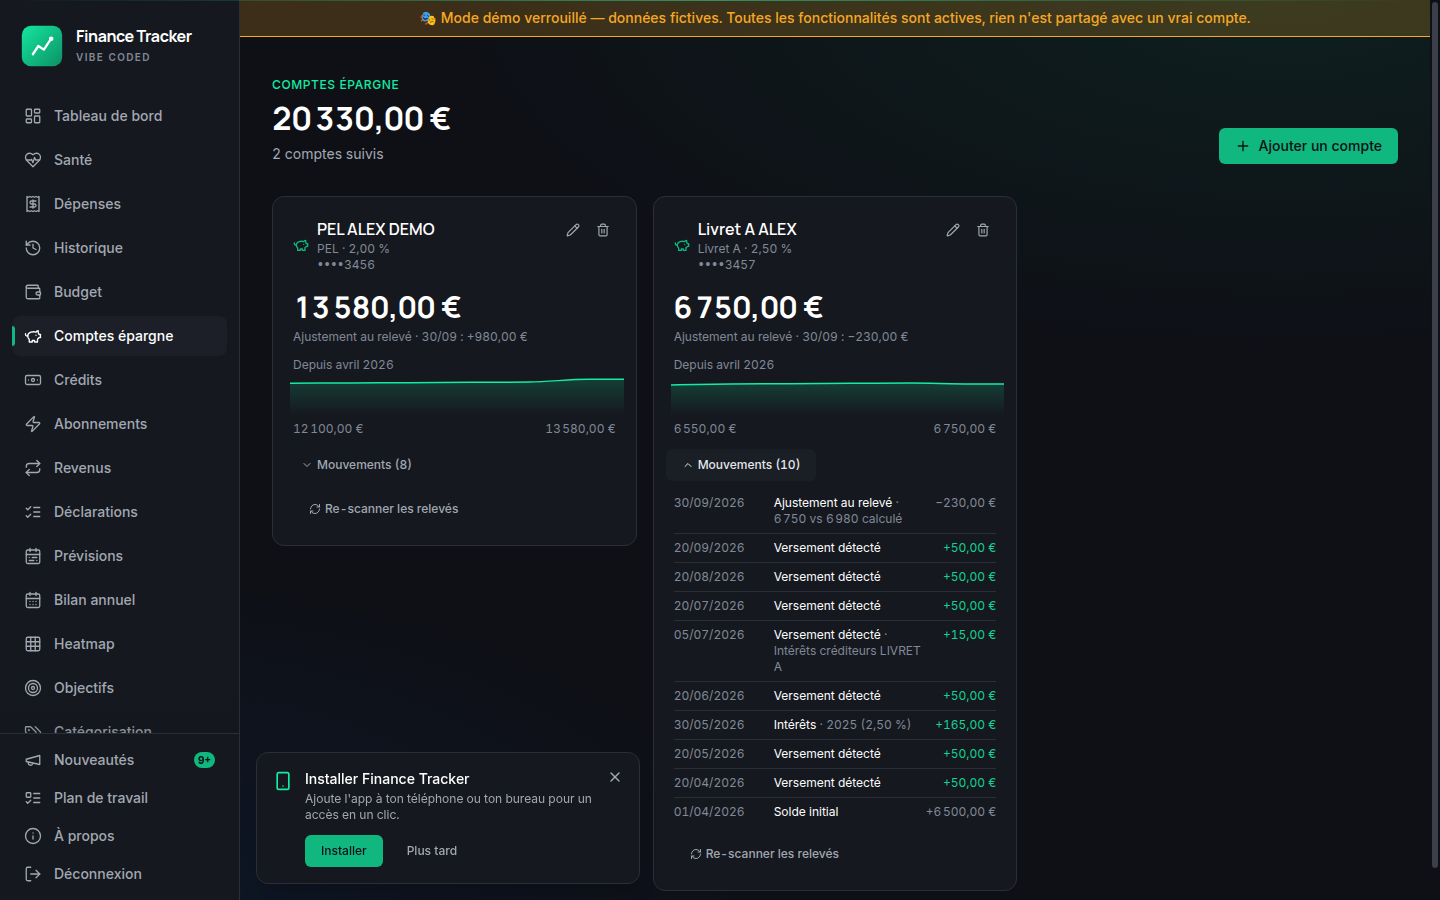
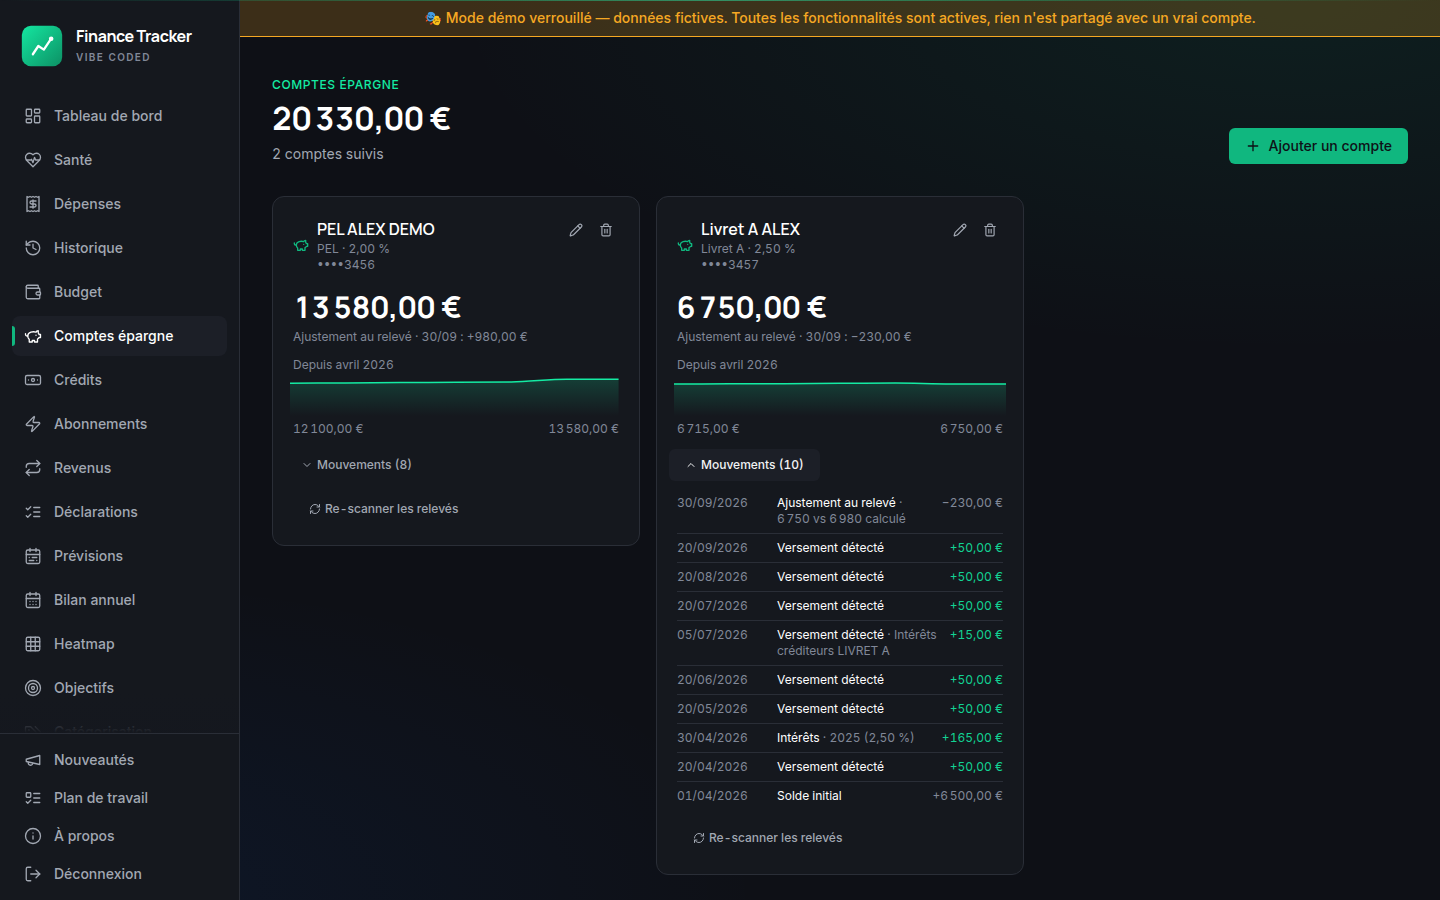
fix(L130): captures de la Nouveauté refaites avec l'intérêt recalé au 30 d'un mois de 30 jours (30/04/2026)

diff --git a/frontend/public/nouveautes-data/index.html b/frontend/public/nouveautes-data/index.html
@@ -20,7 +20,7 @@ code { font-size: 13px; padding: 1px 4px; border-radius: 4px; background: var(--
 </style>
 </head>
 <body>
-<header><h1>finance-tracker — nouveautés</h1><p class="meta">Généré le 2026-10-23 11:47 par cadence</p></header>
+<header><h1>finance-tracker — nouveautés</h1><p class="meta">Généré le 2026-10-23 12:04 par cadence</p></header>
 <main>
 <article id="2026-10-23-demo-epargne-avec-interets-et-versements-annotes">
   <h2>Démo : épargne avec intérêts et versements annotés</h2>
